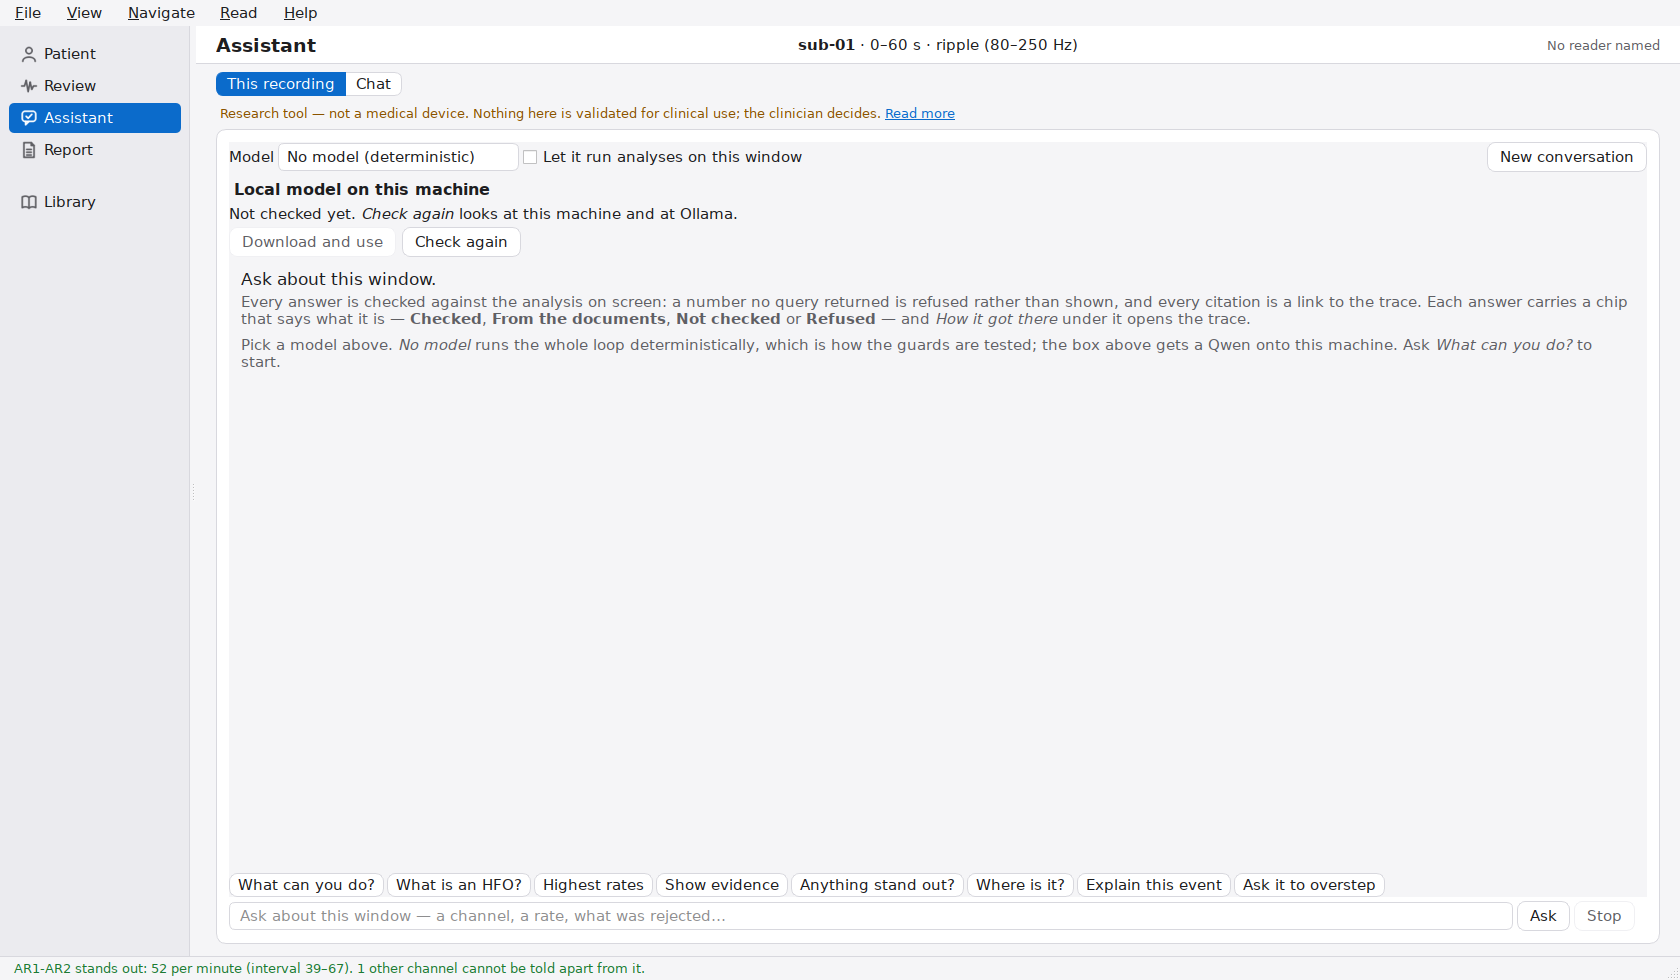
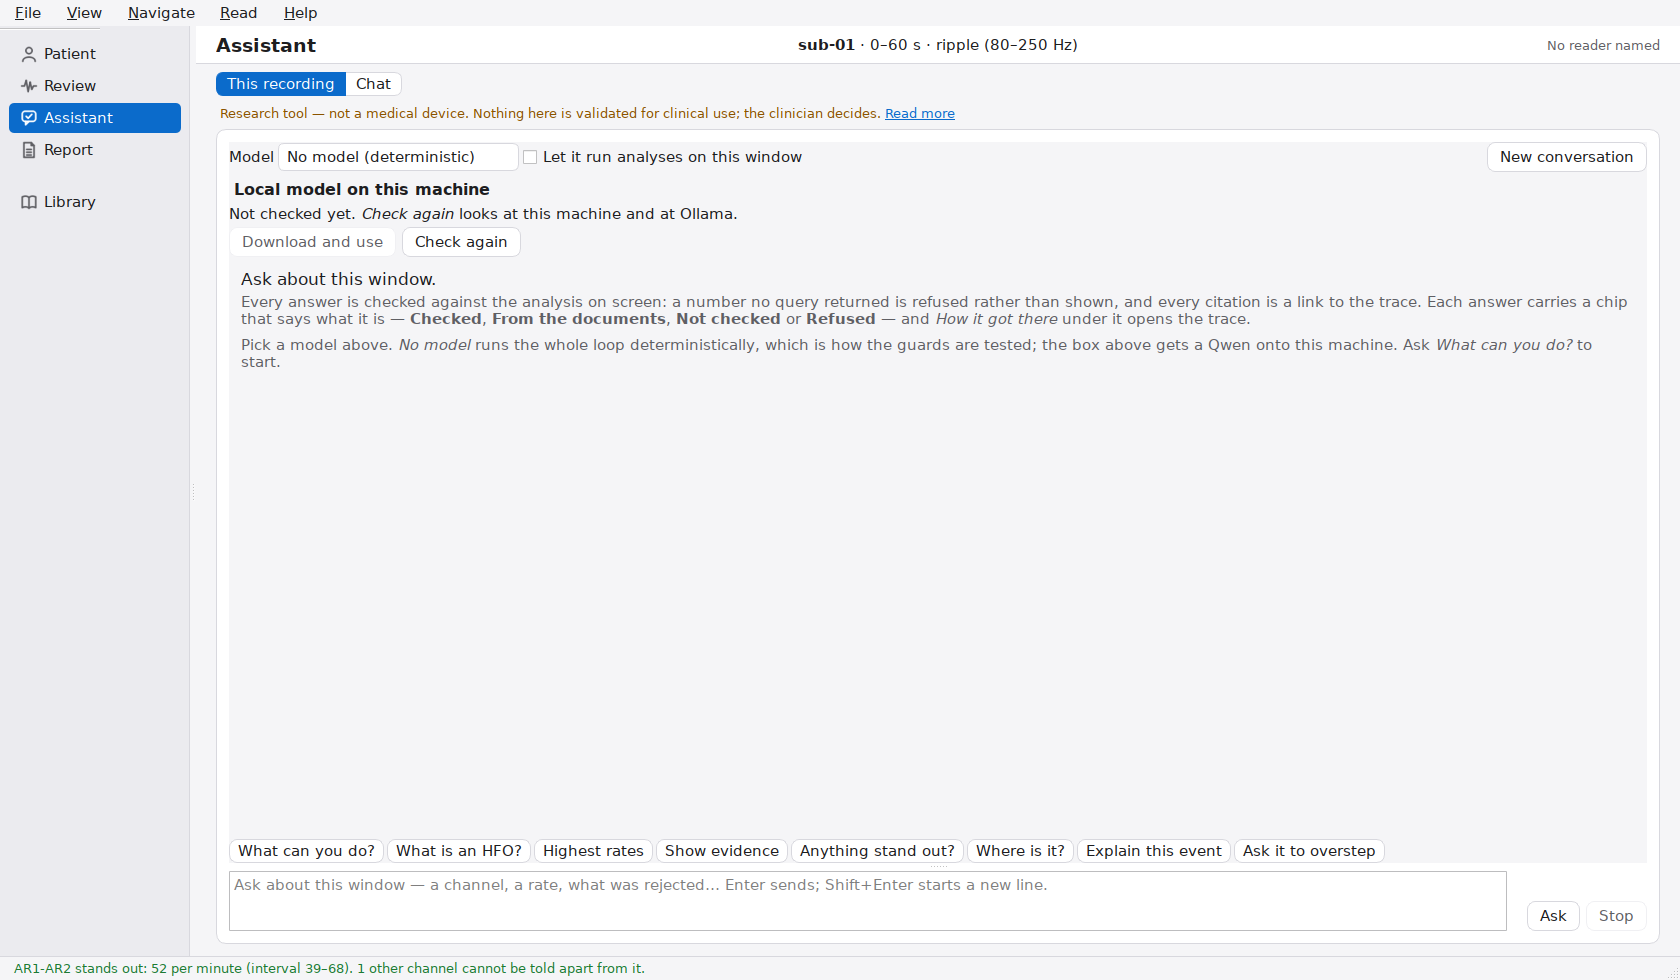
Study pages: a multi-line question box with a grip; retake four screenshots
The "Ask about this page" box under each study page is now a PromptBox,
as on the Assistant and Chat pages: Enter asks, Shift+Enter starts a new
line. The page scrolls and has no conversation to share a splitter with,
so a GrowHandle (new, in promptbox.py) sits under the box: dragging it
sets the box's height, between one line and twenty. Ask and Stop sit at
the box's foot.

Retaken from the app (sub-01, 0-60 s) so the docs and the in-app page
previews show the new boxes: onset-review-assistant.png,
onset-review-chat.png, onset-review-study.png (the Ictal onset page, as
before) and onset-review-assistant-answer.png (the same four questions as
before). INSTALL.md's study-page paragraph mentions the box and its grip.

A test types a two-line question, sends it with Enter, drags the grip
120 px and checks the box grew by exactly that, and that it stops at one
line and at twenty.

Claude-Session: https://claude.ai/code/session_01TmwprQPHqRNDexbPVwELoA

Changed region(s): [[0.1238, 0.8571, 0.8357, 0.949], [0.8976, 0.9184, 0.9595, 0.949]]

diff --git a/onset-hfo/onset_review/promptbox.py b/onset-hfo/onset_review/promptbox.py
@@ -10,10 +10,10 @@ under the transcript and the reader can drag it as tall as they like.
 from __future__ import annotations
 
 from qtpy.QtCore import Qt, Signal
-from qtpy.QtGui import QTextCursor
-from qtpy.QtWidgets import QPlainTextEdit, QSizePolicy
+from qtpy.QtGui import QPainter, QPalette, QTextCursor
+from qtpy.QtWidgets import QPlainTextEdit, QSizePolicy, QWidget
 
-__all__ = ["PromptBox"]
+__all__ = ["GrowHandle", "PromptBox"]
 
 
 class PromptBox(QPlainTextEdit):
@@ -60,3 +60,64 @@ class PromptBox(QPlainTextEdit):
                 self.returnPressed.emit()
             return
         super().keyPressEvent(event)
+
+
+class GrowHandle(QWidget):
+    """A strip under a box that drags the box taller or shorter.
+
+    For a box with nothing to share a splitter with, such as the question
+    box at the foot of a scrolling study page: the box keeps a fixed height,
+    and dragging this strip sets it, between one line and `MAX_LINES`.
+    """
+
+    MAX_LINES = 20
+
+    def __init__(self, target: PromptBox, parent=None):
+        super().__init__(parent)
+        self._target = target
+        self._grab: tuple[float, int] | None = None
+        self.setObjectName("onset_grow_handle")
+        self.setFixedHeight(8)
+        self.setCursor(Qt.SizeVerCursor)
+        self.setToolTip("Drag to make the question box taller or shorter")
+        target.setFixedHeight(target.sizeHint().height())
+
+    def resize_target(self, height: int) -> None:
+        low = self._target._height(1)
+        high = self._target._height(self.MAX_LINES)
+        self._target.setFixedHeight(max(low, min(high, int(height))))
+
+    def mousePressEvent(self, event):                     # noqa: N802  (Qt's spelling)
+        if event.button() == Qt.LeftButton:
+            self._grab = (_screen_y(event), self._target.height())
+            event.accept()
+            return
+        super().mousePressEvent(event)
+
+    def mouseMoveEvent(self, event):                      # noqa: N802  (Qt's spelling)
+        if self._grab is not None:
+            start, height = self._grab
+            self.resize_target(height + _screen_y(event) - start)
+            event.accept()
+            return
+        super().mouseMoveEvent(event)
+
+    def mouseReleaseEvent(self, event):                   # noqa: N802  (Qt's spelling)
+        self._grab = None
+        super().mouseReleaseEvent(event)
+
+    def paintEvent(self, event):                          # noqa: N802  (Qt's spelling)
+        # Three short lines in the middle: the usual sign of a grip.
+        painter = QPainter(self)
+        painter.setPen(self.palette().color(QPalette.Mid))
+        middle, width = self.width() // 2, 18
+        for offset in (2, 4, 6):
+            painter.drawLine(middle - width // 2, offset, middle + width // 2, offset)
+        painter.end()
+
+
+def _screen_y(event) -> float:
+    """The pointer's height on screen, under Qt 6 and Qt 5 alike."""
+    if hasattr(event, "globalPosition"):
+        return event.globalPosition().y()
+    return float(event.globalPos().y())

diff --git a/onset-hfo/tests/test_review_app.py b/onset-hfo/tests/test_review_app.py
@@ -3656,6 +3656,45 @@ def test_the_assistant_question_box_takes_lines_and_can_be_dragged_taller(qapp, 
         panel.deleteLater()
 
 
+def test_the_study_page_question_box_has_a_grip_that_drags_it_taller(qapp, monkeypatch):
+    from qtpy.QtCore import QEvent, QPoint, Qt
+    from qtpy.QtGui import QKeyEvent
+    from qtpy.QtTest import QTest
+
+    from onset_review.promptbox import GrowHandle, PromptBox
+    from onset_review.studypages import PageAsk
+
+    box = PageAsk()
+    asked = []
+    monkeypatch.setattr(box, "ask", lambda question=None: asked.append(box.question.text()))
+    box.question.returnPressed.disconnect()
+    box.question.returnPressed.connect(box.ask)
+    try:
+        box.resize(900, 200)
+        box.show()
+        qapp.processEvents()
+        assert isinstance(box.question, PromptBox) and isinstance(box.grow, GrowHandle)
+        box.question.setText("Summarise this page.")
+        box.question.keyPressEvent(QKeyEvent(QEvent.KeyPress, Qt.Key_Return, Qt.ShiftModifier))
+        box.question.insertPlainText("Then the main number.")
+        box.question.keyPressEvent(QKeyEvent(QEvent.KeyPress, Qt.Key_Return, Qt.NoModifier))
+        assert asked == ["Summarise this page.\nThen the main number."]
+
+        before = box.question.height()
+        QTest.mousePress(box.grow, Qt.LeftButton, Qt.NoModifier, QPoint(40, 4))
+        QTest.mouseMove(box.grow, QPoint(40, 124))
+        QTest.mouseRelease(box.grow, Qt.LeftButton, Qt.NoModifier, QPoint(40, 124))
+        qapp.processEvents()
+        assert box.question.height() == before + 120
+        # Never shorter than a line, never taller than its limit.
+        box.grow.resize_target(1)
+        assert box.question.height() == box.question._height(1)
+        box.grow.resize_target(10_000)
+        assert box.question.height() == box.question._height(GrowHandle.MAX_LINES)
+    finally:
+        box.deleteLater()
+
+
 # The Apple pass: a source list with glyphs, a toolbar that names the page and
 # carries its buttons, panels on cards, and colour spent on the exceptions.
 

diff --git a/onset-hfo/onset_review/studypages.py b/onset-hfo/onset_review/studypages.py
@@ -300,10 +300,14 @@ class PageAsk(QWidget):
         tokens = theme.current()
         self._title, self._text, self._lead = "", "", ""
         self._worker = None
-        self.question = QLineEdit()
+        from onset_review.promptbox import GrowHandle, PromptBox
+
+        self.question = PromptBox()
         self.question.setObjectName("onset_page_question")
         self.question.setPlaceholderText(
-            "Ask about this page — summarise it, or ask what a term or a number means")
+            "Ask about this page — summarise it, or ask what a term or a number means. "
+            "Enter asks; Shift+Enter starts a new line.")
+        self.grow = GrowHandle(self.question)
         self.question.returnPressed.connect(lambda: self.ask())
         self.ask_button = QPushButton("Ask")
         self.ask_button.setObjectName("onset_page_ask")
@@ -334,11 +338,24 @@ class PageAsk(QWidget):
             chip.setProperty("suggested", text)
             chip.clicked.connect(lambda _=False, q=text: self.ask(q))
             chips.addWidget(chip)
+        # The box keeps the height its handle gives it; the buttons sit at its
+        # foot, where a question ends.
+        typed = QVBoxLayout()
+        typed.setSpacing(0)
+        typed.addWidget(self.question)
+        typed.addWidget(self.grow)
+        typed.addStretch(1)
+        buttons = QVBoxLayout()
+        buttons.addStretch(1)
+        sending = QHBoxLayout()
+        sending.addWidget(self.ask_button)
+        sending.addWidget(self.stop_button)
+        buttons.addLayout(sending)
+        buttons.addSpacing(self.grow.height())
         row = QHBoxLayout()
         row.setSpacing(theme.SPACING // 2)
-        row.addWidget(self.question, 1)
-        row.addWidget(self.ask_button)
-        row.addWidget(self.stop_button)
+        row.addLayout(typed, 1)
+        row.addLayout(buttons)
         box = QVBoxLayout(self)
         box.setContentsMargins(0, 0, 0, 0)
         box.setSpacing(theme.SPACING // 2)

diff --git a/onset-hfo/docs/INSTALL.md b/onset-hfo/docs/INSTALL.md
@@ -321,6 +321,8 @@ tooltip. Under the text, **Ask about
 this page** puts a question to the local model with that page as its only
 material — every number in the answer must be on the page or the answer is
 marked refused — and answers from the page itself when no model is loaded.
+Its box takes more than one line (**Enter** asks, **Shift+Enter** starts a
+new line), and the grip under it drags it taller.
 Band, metric and patient are combo boxes above the text, and the
 Patients page can open a patient's cached window on the Recording page, which
 is the one link the site cannot make.
